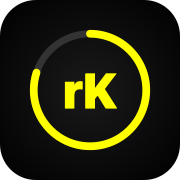
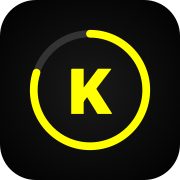
Rebrand: reKova → Kova
- All references updated across HTML, manifest, privacy, SW
- New icon: single "K" with recovery ring (larger, bolder)
- Regenerated icons at 180, 192, 512px
- Cache bumped to kova-v1

Changed region(s): [[0.3333, 0.3611, 0.6667, 0.6389]]

diff --git a/index.html b/index.html
@@ -3,12 +3,12 @@
 <head>
     <meta charset="UTF-8">
     <meta name="viewport" content="width=device-width, initial-scale=1.0, viewport-fit=cover">
-    <title>reKova</title>
+    <title>Kova</title>
     <link rel="manifest" href="/manifest.json">
     <meta name="theme-color" content="#000000">
     <meta name="apple-mobile-web-app-capable" content="yes">
     <meta name="apple-mobile-web-app-status-bar-style" content="black-translucent">
-    <meta name="apple-mobile-web-app-title" content="reKova">
+    <meta name="apple-mobile-web-app-title" content="Kova">
     <link rel="apple-touch-icon" href="/icons/icon-180.png">
     <script src="https://cdn.jsdelivr.net/npm/chart.js"></script>
     <style>
@@ -215,7 +215,7 @@
 <div class="onboarding" id="onboarding">
     <!-- Step 1: Welcome -->
     <div class="ob-step active" id="ob1">
-        <div class="ob-title">reKova</div>
+        <div class="ob-title">Kova</div>
         <div class="ob-sub">Your training adapts to how your body recovers. Log workouts, track food with AI, and let recovery guide your intensity.</div>
         <button class="btn" onclick="obNext(2)">Get Started</button>
         <div class="ob-dots"><div class="ob-dot active"></div><div class="ob-dot"></div><div class="ob-dot"></div><div class="ob-dot"></div></div>
@@ -281,7 +281,7 @@
 <div class="header" id="appHeader">
     <div class="recovery-gradient" id="recoveryGradient"></div>
     <div class="header-top">
-        <div class="header-title">reKova</div>
+        <div class="header-title">Kova</div>
         <div class="whoop-pill disconnected" id="whoopPill" onclick="authenticateWHOOP()">
             <span id="whoopPillText">Connect WHOOP</span>
         </div>
@@ -1240,7 +1240,7 @@ function toggleAdvanced(){document.getElementById('advancedSettings').classList.
 function exportData(){
     const data={weightHistory,workoutLogs,foodLogs,dailyData,whoopData,customExercises,dayModes,config,recoveryHistory,exportDate:new Date().toISOString()};
     const blob=new Blob([JSON.stringify(data,null,2)],{type:'application/json'});
-    const a=document.createElement('a');a.href=URL.createObjectURL(blob);a.download=`rekova_export_${todayStr()}.json`;a.click();
+    const a=document.createElement('a');a.href=URL.createObjectURL(blob);a.download=`kova_export_${todayStr()}.json`;a.click();
 }
 
 function clearAllData(){if(confirm('Delete ALL data?')){if(confirm('Last chance.')){localStorage.clear();location.reload();}}}

diff --git a/privacy.html b/privacy.html
@@ -3,7 +3,7 @@
 <head>
     <meta charset="UTF-8">
     <meta name="viewport" content="width=device-width, initial-scale=1.0">
-    <title>Privacy Policy - reKova</title>
+    <title>Privacy Policy - Kova</title>
     <style>
         * { margin: 0; padding: 0; box-sizing: border-box; }
         body {
@@ -63,7 +63,7 @@
         <h1>Privacy Policy</h1>
         <p class="updated">Last updated: March 29, 2026</p>
 
-        <p>reKova ("the App") is a personal fitness tracking application that integrates with WHOOP to provide recovery-based workout adjustments. This privacy policy explains how we handle your data.</p>
+        <p>Kova ("the App") is a personal fitness tracking application that integrates with WHOOP to provide recovery-based workout adjustments. This privacy policy explains how we handle your data.</p>
 
         <h2>1. Data We Collect</h2>
         <p>When you connect your WHOOP account, the App accesses the following data through the WHOOP API:</p>
@@ -133,7 +133,7 @@
         <p>If you have questions about this privacy policy, please reach out via the project's GitHub repository.</p>
 
         <div class="footer">
-            reKova &mdash; A personal fitness project.
+            Kova &mdash; A personal fitness project.
         </div>
     </div>
 </body>

diff --git a/sw.js b/sw.js
@@ -1,4 +1,4 @@
-const CACHE_NAME = 'rekova-v5';
+const CACHE_NAME = 'kova-v1';
 const ASSETS_TO_CACHE = [
   '/',
   '/index.html',
